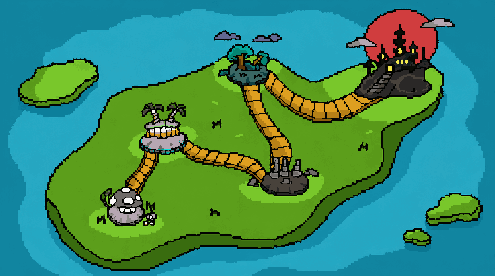
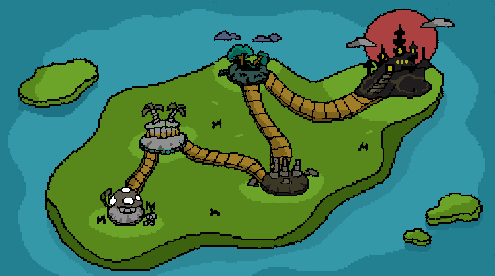
fix: 다시 그린 월드맵의 색을 원래 지도 팔레트로 되돌림
Codex 로 다시 그린 WorldMapDefault, ActTwoMap 은 배치는 같지만 바다와 풀이
원래보다 밝고 진했다. 원래 지도를 새 격자 크기로 겹쳐 놓고, 새 그림의 색마다
같은 자리에 가장 많이 있던 원래 색으로 바꿨다(match_palette.py). 칸 모양은
그대로이고 색만 원래 팔레트(25색, 24색)로 돌아간다. 1부 진행 그림 4장은 바뀐
WorldMapDefault 에서 map_stages.py 로 다시 만들었다.

Refs #116

diff --git a/docs/design/pixel-grid/match_palette.py b/docs/design/pixel-grid/match_palette.py
@@ -1,0 +1,24 @@
+"""다시 그린 그림의 색을 원래 그림의 색으로 되돌린다(#116).
+
+사용법: python3 docs/design/pixel-grid/match_palette.py <원래 그림> <새 그림> [<새 그림>을 덮어씀]
+저장소 루트에서 실행한다. Codex 로 다시 그린 지도는 배치는 같지만 색이 더 밝고 진했다. 원래 그림을 새 그림
+크기로 늘려(가장 가까운 픽셀) 겹쳐 놓고, 새 그림의 색마다 같은 자리에 가장 많이 있던 원래 색으로 바꾼다.
+새 그림의 칸 경계와 모양은 그대로이고 색만 원래 팔레트로 돌아간다.
+"""
+import sys
+from collections import Counter
+
+import numpy as np
+from PIL import Image
+
+old_path, new_path = sys.argv[1:3]
+new = np.asarray(Image.open(new_path).convert("RGB"))
+H, W = new.shape[:2]
+old = np.asarray(Image.open(old_path).convert("RGB").resize((W, H), Image.NEAREST))
+votes = {}
+for n, o in zip(map(tuple, new.reshape(-1, 3)), map(tuple, old.reshape(-1, 3))):
+    votes.setdefault(n, Counter())[o] += 1
+mapping = {n: c.most_common(1)[0][0] for n, c in votes.items()}
+out = np.array([mapping[tuple(p)] for p in new.reshape(-1, 3)], np.uint8).reshape(H, W, 3)
+Image.fromarray(out).save(new_path, optimize=True)
+print(f"{new_path}: {len(mapping)} colours -> {len(set(mapping.values()))} original colours")
